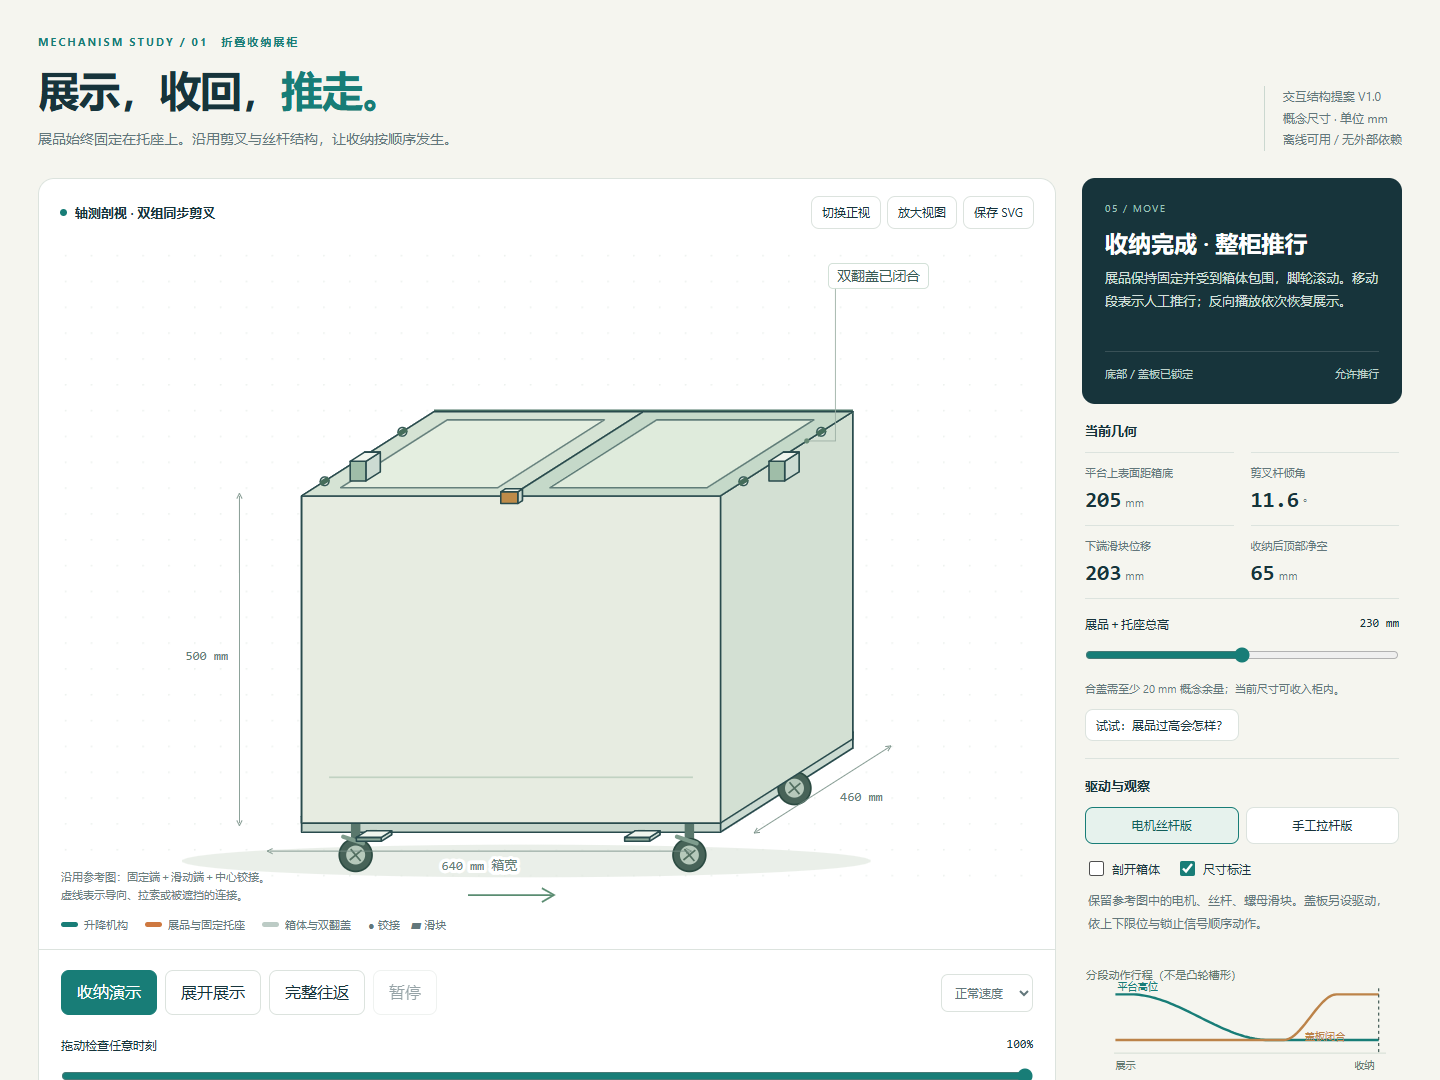
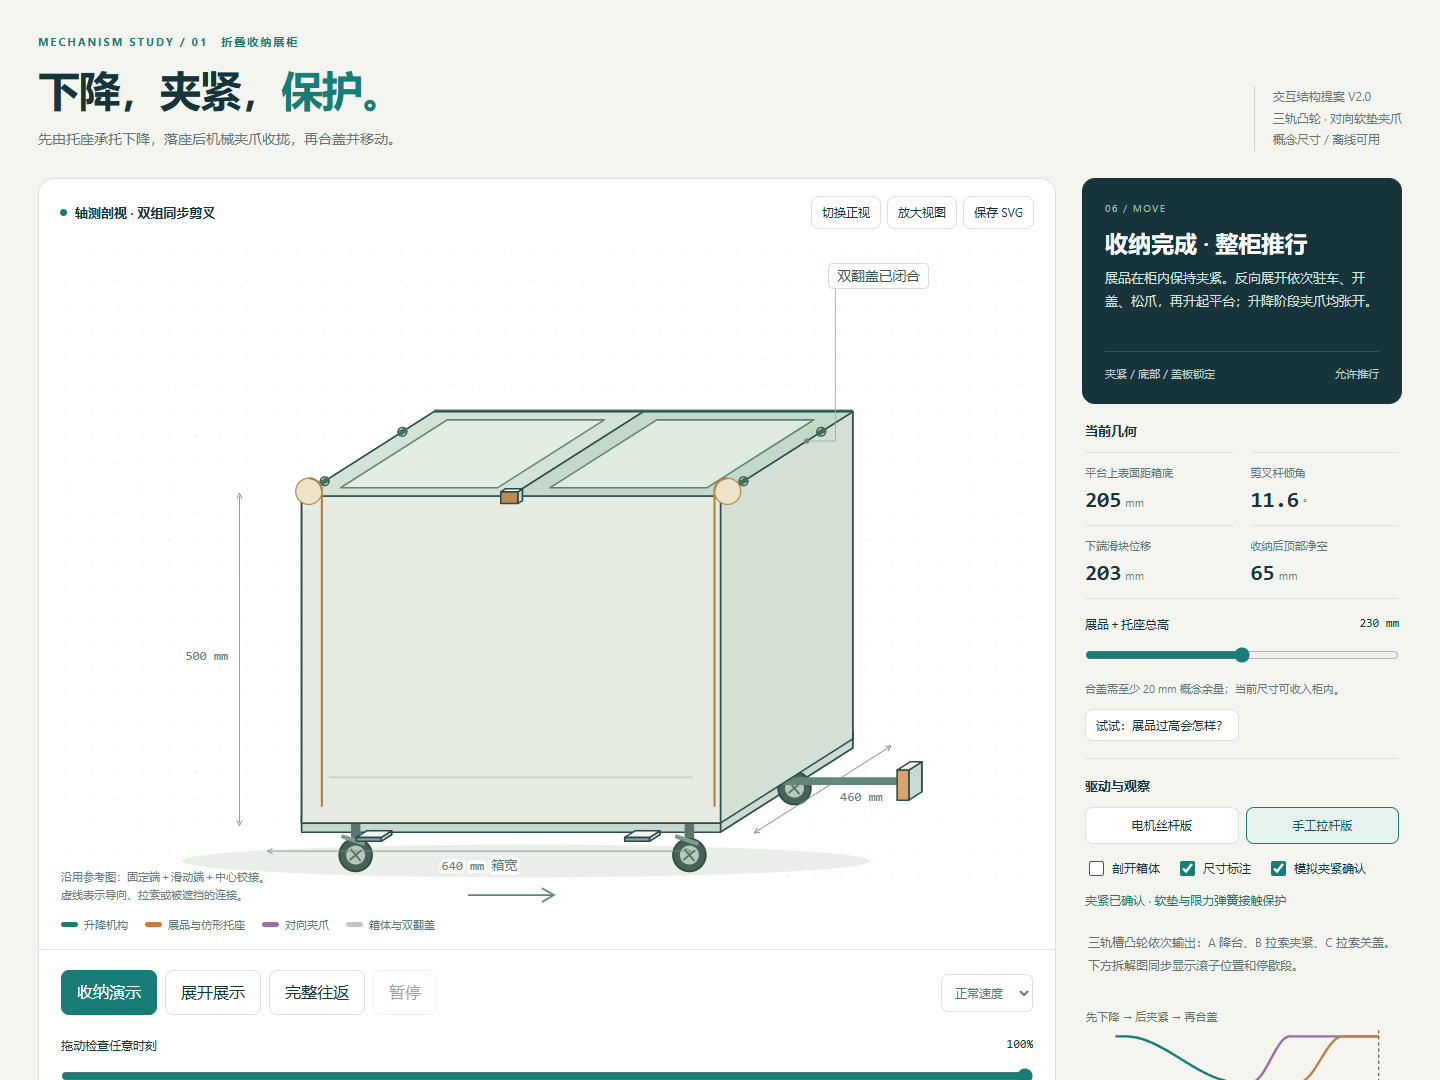
notes: 2026-10-25 08:36:46

diff --git a/60-项目/折叠收纳展柜/index.html b/60-项目/折叠收纳展柜/index.html
@@ -197,41 +197,68 @@ function draw(){
 }
 function drawAnnotations(g,shift){let a='';
  function call(text,screen,world){let t=P(...world);t[0]+=shift;let [x,y]=screen;a+=`<path d="M${x+8} ${y+10} L${x+8} ${t[1]} L${t[0]} ${t[1]}" fill="none" stroke="#9aada2" stroke-width="1"/><circle cx="${t[0]}" cy="${t[1]}" r="3" fill="#668a75"/><rect x="${x}" y="${y-15}" width="${text.length*16+20}" height="29" rx="5" class="callout"/><text x="${x+10}" y="${y+5}" class="label">${text}</text>`;}
- if(!state.front){if(state.cutaway||g.objectTop>C.rim)call('固定托座，随台移动',[82,55],[230,150,g.top+8]);if(state.cutaway)call('中心铰接 · 双组同步',[43,382],[65+g.d/2,90,80+g.h/2]);call(g.lid<1?'双翻盖已闭合':'外翻顶盖',[917,55],[640,300,500]);if(state.cutaway)call(state.mode==='electric'?'丝杆＋螺母滑块':'拉杆驱动滑块',[866,589],[65+g.d,43,65]);}
+ if(!state.front){if(state.cutaway||g.objectTop>C.rim)call('仿形托座，承托下降',[82,55],[230,150,g.top+8]);if(state.cutaway)call('中心铰接 · 双组同步',[43,382],[65+g.d/2,90,80+g.h/2]);call(g.lid<1?'双翻盖已闭合':'外翻顶盖',[917,55],[640,300,500]);if(state.cutaway){call(state.mode==='electric'?'丝杆＋螺母滑块':'三轨凸轮＋拉索',[866,589],[65+g.d,43,65]);call(g.grip>.99?'软垫夹爪已收拢':'软垫夹爪',[884,362],[320,160,g.top+20]);}}
  if(state.dims){
   function dim(A,B,text,dx=0,dy=0){let u=P(...A),v=P(...B);u[0]+=shift;v[0]+=shift;const x=(u[0]+v[0])/2+dx,y=(u[1]+v[1])/2+dy;a+=`<line x1="${u[0]}" y1="${u[1]}" x2="${v[0]}" y2="${v[1]}" class="dim" marker-start="url(#arrow)" marker-end="url(#arrow)"/><text x="${x}" y="${y}" class="dimlabel" text-anchor="middle" paint-order="stroke" stroke="#fff" stroke-width="7" stroke-linejoin="round">${text}</text>`;}
   dim([0,-110,-12],[640,-110,-12],'640 mm 箱宽',0,22);
   const xb=state.front?-115:-95;dim([xb,0,0],[xb,0,500],'500 mm',-38,0);
   if(!state.front)dim([695,0,-13],[695,460,-13],'460 mm',45,13);
-  if(state.cutaway&&g.p>=.58){const top=205+state.objectHeight;let v=P(470,40,500),b=P(470,40,top);a+=`<path d="M${v[0]+shift} ${v[1]}V${b[1]}" stroke="${g.clearance<20?'#b1463d':'#b18448'}" stroke-width="2" marker-start="url(#arrow)" marker-end="url(#arrow)"/><text x="${v[0]+shift+12}" y="${(v[1]+b[1])/2}" class="label" style="fill:${g.clearance<20?'#b1463d':'#946b32'}">净空 ${Math.round(g.clearance)}</text>`;}
+  if(state.cutaway&&g.p>=.46){const top=205+state.objectHeight;let v=P(470,40,500),b=P(470,40,top);a+=`<path d="M${v[0]+shift} ${v[1]}V${b[1]}" stroke="${g.clearance<20?'#b1463d':'#b18448'}" stroke-width="2" marker-start="url(#arrow)" marker-end="url(#arrow)"/><text x="${v[0]+shift+12}" y="${(v[1]+b[1])/2}" class="label" style="fill:${g.clearance<20?'#b1463d':'#946b32'}">净空 ${Math.round(g.clearance)}</text>`;}
  }
- if(g.clearance<C.margin&&g.p>=.58){a+=`<rect x="373" y="60" width="435" height="42" rx="8" fill="#fff1e9" stroke="#d9b09b"/><text x="590" y="87" text-anchor="middle" class="label" style="fill:#a04734">净空不足：合盖与移动已阻止</text>`;}
+ if(g.p>=.699&&(g.clearance<C.margin||!state.clampOK)){a+=`<rect x="373" y="60" width="435" height="42" rx="8" fill="#fff1e9" stroke="#d9b09b"/><text x="590" y="87" text-anchor="middle" class="label" style="fill:#a04734">${g.clearance<C.margin?'净空不足':'夹紧未确认'}：合盖与移动已阻止</text>`;}
  $('annotations').innerHTML=a;
 }
-function drawSequence(g){let s='<text x="1" y="15" font-size="11" fill="#63776e">分段动作行程（不是凸轮槽形）</text><line x1="29" y1="88" x2="297" y2="88" stroke="#d3ddd4"/>';
+function drawSequence(g){let s='<text x="1" y="15" font-size="11" fill="#63776e">先下降 → 后夹紧 → 再合盖</text><line x1="29" y1="88" x2="297" y2="88" stroke="#d3ddd4"/>';
  function graph(fn,color){let path='';for(let i=0;i<=100;i++){const p=i/100,x=30+260*p,y=30+45*fn(p);path+=(i?'L':'M')+x.toFixed(1)+' '+y.toFixed(1);}return `<path d="${path}" stroke="${color}" stroke-width="2.4" fill="none"/>`;}
- s+=graph(p=>segment(p,.06,.58),'#187d77')+graph(p=>1-segment(p,.64,.84),'#bc8349');s+=`<line x1="${30+260*g.p}" y1="24" x2="${30+260*g.p}" y2="88" stroke="#203e38" stroke-width="1" stroke-dasharray="3 3"/><text x="30" y="104" font-size="10" fill="#63776e">展示</text><text x="266" y="104" font-size="10" fill="#63776e">收纳</text><text x="32" y="26" font-size="10" fill="#187d77">平台高位</text><text x="217" y="75" font-size="10" fill="#bc8349">盖板闭合</text>`;$('sequenceDrawing').innerHTML=s;
+ s+=graph(p=>segment(p,.04,.46),'#187d77')+graph(p=>1-segment(p,.52,.66),'#9870a6')+graph(p=>1-segment(p,.70,.86),'#bc8349');s+=`<line x1="${30+260*g.p}" y1="24" x2="${30+260*g.p}" y2="88" stroke="#203e38" stroke-width="1" stroke-dasharray="3 3"/><text x="30" y="104" font-size="10" fill="#63776e">展示</text><text x="266" y="104" font-size="10" fill="#63776e">收纳</text><text x="30" y="124" font-size="10" fill="#187d77">A 平台下降</text><text x="122" y="124" font-size="10" fill="#9870a6">B 夹爪收拢</text><text x="220" y="124" font-size="10" fill="#bc8349">C 顶盖闭合</text>`;$('sequenceDrawing').innerHTML=s;
+}
+function drawMechanism(g){
+ const k=1.44,px=165-C.inputTravel*g.p*k,colors=['#187d77','#9870a6','#b18342'],keys=['camA','camB','camC'],rows=[90,200,280];
+ let m='<text x="26" y="28" font-size="18" font-weight="600" fill="#254840">三轨直动槽凸轮 · 正视展开</text><text x="600" y="28" font-size="18" font-weight="600" fill="#254840">对向软垫夹爪 · 俯视</text><rect x="24" y="56" width="516" height="332" rx="7" fill="#f1f4e9" stroke="#d0dbce"/>';
+ m+=`<g clip-path="url(#camWindow)"><rect x="${px-16}" y="67" width="380" height="305" rx="8" fill="#e2e9da" stroke="#9db2a0" stroke-width="1.5"/>`;
+ for(let j=0;j<3;j++){
+  let d='';for(let i=0;i<=150;i++){const p=i/150,q=geometry(p,state.objectHeight,true),x=px+C.inputTravel*p*k,y=rows[j]+q[keys[j]]*k;d+=(i?'L':'M')+x.toFixed(2)+' '+y.toFixed(2);}
+  m+=`<path d="${d}" fill="none" stroke="${colors[j]}" stroke-width="12" stroke-linecap="round"/><path d="${d}" fill="none" stroke="#fffdf3" stroke-width="7" stroke-linecap="round"/>`;
+ }
+ m+='</g>';
+ for(let j=0;j<3;j++){
+  const cy=rows[j]+g[keys[j]]*k;m+=`<rect x="157" y="${rows[j]-12}" width="16" height="${j===0?102:j===1?61:99}" rx="3" fill="none" stroke="#748c7f" stroke-dasharray="4 3"/><line x1="165" y1="${cy}" x2="165" y2="${cy-18}" stroke="#3b5c50" stroke-width="3"/><circle cx="165" cy="${cy}" r="5" fill="#f9f4db" stroke="${colors[j]}" stroke-width="2"/><rect x="30" y="${rows[j]-27}" width="118" height="24" rx="3" fill="#fafbf6"/><text x="35" y="${rows[j]-10}" font-size="13" fill="${colors[j]}">${['A 升降','B 夹紧','C 关盖'][j]} ${g[keys[j]].toFixed(1)} mm</text>`;
+ }
+ m+=`<text x="26" y="411" font-size="14" fill="#31564a">操作杆：${(C.inputTravel*g.p).toFixed(0)} / 240 mm　控制板向左移</text><path d="M460 405H390m12-6-12 6 12 6" fill="none" stroke="#728d7c" stroke-width="1.5"/><text x="26" y="436" font-size="12" fill="#73877a" class="small-detail">槽线为滚子中心轨迹；槽宽、滚子补偿及压力角需复核。</text>`;
+ // Two opposed racks mesh with one fixed pinion: equal and opposite jaw travel.
+ const L=714+26*g.grip,R=866-26*g.grip;
+ m+='<rect x="602" y="61" width="370" height="303" rx="8" fill="#f4f0f5" stroke="#dfd2e1"/><path d="M625 119H949 M625 293H949" stroke="#c7b7cc" stroke-width="8" stroke-linecap="round"/><circle cx="790" cy="211" r="50" fill="#ead0ac" stroke="#bc966c" stroke-width="2"/><text x="790" y="216" font-size="13" fill="#7c5d41" text-anchor="middle">承力托圈</text>';
+ m+=`<rect x="${L-28}" y="107" width="${824-(L-28)}" height="13" fill="#b89dc0" stroke="#82668b"/><rect x="756" y="150" width="${R+28-756}" height="13" fill="#b89dc0" stroke="#82668b"/>`;
+ for(let i=0;i<10;i++){m+=`<path d="M${L-17+i*10} 120v5h5v-5 M${R+17-i*10} 150v-5h-5v5" fill="none" stroke="#8c6d96" stroke-width="1.5"/>`;}
+ m+=`<g transform="translate(790 135) rotate(${g.grip*26/20*180/Math.PI})"><circle r="20" fill="#e3d6e6" stroke="#8e7298" stroke-width="4"/>`;
+ for(let i=0;i<12;i++){const a=i*Math.PI/6;m+=`<line x1="${16*Math.cos(a)}" y1="${16*Math.sin(a)}" x2="${23*Math.cos(a)}" y2="${23*Math.sin(a)}" stroke="#82668b" stroke-width="4"/>`;}
+ m+='</g><circle cx="790" cy="135" r="4" fill="#82668b"/>';
+ for(const [face,sgn]of [[L,-1],[R,1]]){const bx=sgn<0?face-25:face+8;m+=`<rect x="${bx}" y="105" width="17" height="195" rx="5" fill="#b89dc0" stroke="#8e7298" stroke-width="1.5"/><rect x="${sgn<0?face-8:face}" y="185" width="8" height="52" rx="3" fill="${g.gripConfirmed?'#77a995':'#cfb8d0'}" stroke="#8e7298"/><path d="M${sgn<0?face-35:face+35} 269l-5-5 10-6-10-6 10-6-5-5" stroke="#8e7298" stroke-width="1.8" fill="none"/>`;}
+ m+=`<path d="M640 321H745 M940 321H835 M734 315l11 6-11 6 M846 315l-11 6 11 6" stroke="#9870a6" stroke-width="1.7" fill="none"/><text x="790" y="348" font-size="13" text-anchor="middle" fill="#81618b">单爪内移 ${g.jawTravel.toFixed(1)} / 20 mm</text><text x="601" y="394" font-size="13" fill="#456354">B 拉索 → 齿条 → 中央齿轮 → 对侧齿条</text><text x="601" y="417" font-size="12" fill="#73877a" class="small-detail">接触后由限力弹簧让位；回位弹簧负责松爪。</text><text x="601" y="438" font-size="12" fill="#73877a" class="small-detail">C 卷盘半径 20 mm · 总牵引约 47.1 mm。</text>`;
+ $('mechanismDrawing').innerHTML=m;
 }
 function updateUI(g){
  $('progress').value=Math.round(state.p*1000);$('progressValue').textContent=Math.round(state.p*100)+'%';$('heightValue').textContent=Math.round(g.top);$('angleValue').textContent=g.angle.toFixed(1);$('travelValue').textContent=Math.round(g.travel);$('clearanceValue').textContent=Math.round(g.clearance);$('clearanceValue').classList.toggle('risk',g.clearance<C.margin);$('objectHeightValue').textContent=state.objectHeight;$('objectHeight').value=state.objectHeight;
  let phase,title,desc,index,lock,motion='驻车中';
- if(g.p<=.02){phase='display';index='01 / DISPLAY';title='展开 · 稳定展示';desc='平台升至柜口，展示锁止到位。支撑脚落地，脚轮驻车，展品保持固定。';lock='展示位已锁定';}
- else if(g.p<.06){phase='unlock';index='02 / RELEASE';title='解除展示锁止';desc='保持支撑与驻车，先退出展示位锁销，再启动平台下降。';lock='展示锁销退出';}
- else if(g.p<.58){phase='lower';index='02 / LOWER';title='回收 · 平台下降';desc='滑块向外移动，双组剪叉同步折拢。展品与托座整体下降，顶盖保持完全打开。';lock='盖板禁止关闭';}
- else if(g.p<.64){phase='seat';index='03 / SEAT & LOCK';title='落座 · 承托锁定';desc='平台已落在底部承托块上；锁定后，推行载荷由承托结构传到箱体。';lock=g.baseLocked?'底部锁止到位':'底部锁销进入';}
- else if(g.p<.90){phase='close';index='04 / CLOSE';title=g.p<.84?'保护 · 双盖闭合':'封盖 · 锁扣进入';desc='确认平台到底、底部锁止与顶部净空后，两片顶盖向中间合拢，随后锁住盖板。';lock=g.p<.84?'底部已锁定':'盖板正在锁定';}
- else if(g.p<.94){phase='feet';index='05 / RELEASE PARKING';title='收脚 · 准备移动';desc='展品已收入柜内，底部与顶盖锁定。现在收起支撑脚并解除脚轮驻车。';lock='底部／盖板已锁定';motion='解除驻车';}
- else{phase='move';index='05 / MOVE';title='收纳完成 · 整柜推行';desc='展品保持固定并受到箱体包围，脚轮滚动。移动段表示人工推行；反向播放依次恢复展示。';lock='底部／盖板已锁定';motion='允许推行';}
- const blocked=g.clearance<C.margin&&g.p>=.639;
- if(blocked){phase='blocked';index='INTERLOCK / 净空检查';title='合盖被阻止';desc=`展品＋托座高 ${state.objectHeight} mm，收纳净空 ${Math.round(g.clearance)} mm，低于预留的 20 mm。请调低高度后再继续。`;lock='顶盖保持打开';motion='移动被阻止';}
+ if(g.p<=.02){phase='display';index='01 / DISPLAY';title='展开 · 承托展示';desc='展品由仿形托座承托定位，夹爪张开。平台锁止，支撑脚落地，脚轮驻车。';lock='展示位已锁定';}
+ else if(g.p<.04){phase='unlock';index='02 / RELEASE';title='解除展示锁止';desc='保持支撑与驻车，退出展示位锁销。夹爪保持张开，先让平台下降。';lock='展示锁销退出';}
+ else if(g.p<.46){phase='lower';index='02 / LOWER';title='回收 · 平台下降';desc='双组剪叉同步折拢。展品在仿形托座中承托定位，夹爪保持张开，顶盖完全打开。';lock='夹爪与顶盖停歇';}
+ else if(g.p<.52){phase='seat';index='03 / SEAT & LOCK';title='落座 · 承托锁定';desc='平台先落在底部承托块上并锁定。此时升降停止，夹爪尚未收拢。';lock=g.baseLocked?'底部锁止到位':'底部锁销进入';}
+ else if(g.p<.70){phase='grip';index='04 / GRIP';title=g.grip<1?'保护 · 机械夹爪收拢':'夹紧完成 · 等待确认';desc='左右软垫夹爪通过两条齿条同步向中间移动，夹持定制承力托圈；限力弹簧缓冲接触后的过行程。';lock=g.gripConfirmed?'夹紧已确认':'夹爪正在收拢';}
+ else if(g.p<.90){phase='close';index='05 / CLOSE';title=g.p<.86?'保护 · 双盖闭合':'封盖 · 锁扣进入';desc='平台已落座、夹紧已确认且顶部净空足够，两根拉索牵引左右卷盘关盖。夹爪保持夹紧。';lock=g.p<.86?'夹紧保持中':'盖板正在锁定';}
+ else if(g.p<.94){phase='feet';index='06 / RELEASE PARKING';title='收脚 · 准备移动';desc='展品夹紧，平台与顶盖锁定。收起支撑脚并解除脚轮驻车，再进行人工推行。';lock='夹紧／底部／盖板锁定';motion='解除驻车';}
+ else{phase='move';index='06 / MOVE';title='收纳完成 · 整柜推行';desc='展品在柜内保持夹紧。反向展开依次驻车、开盖、松爪，再升起平台；升降阶段夹爪均张开。';lock='夹紧／底部／盖板锁定';motion='允许推行';}
+ const blocked=(g.clearance<C.margin||!state.clampOK)&&g.p>=.699;
+ if(blocked){phase='blocked';index='INTERLOCK / 合盖检查';title='合盖被阻止';desc=g.clearance<C.margin?`展品总高 ${state.objectHeight} mm，净空 ${Math.round(g.clearance)} mm，低于预留的 20 mm。请调低高度后继续。`:'夹爪已执行收拢，但模拟夹紧确认未通过。顶盖保持打开，禁止移动；勾选“模拟夹紧确认”后可继续。';lock='顶盖保持打开';motion='移动被阻止';}
  $('stateIndex').textContent=index;$('stateTitle').textContent=title;$('stateDesc').textContent=desc;$('lockState').textContent=lock;$('motionState').textContent=motion;$('statusPanel').classList.toggle('error',blocked);
  $('clearanceHint').textContent=g.clearance<C.margin?'当前净空不足，演示将停在合盖之前。最大建议总高 275 mm。':'合盖需至少 20 mm 概念余量；当前尺寸可收入柜内。';$('clearanceHint').classList.toggle('risk',g.clearance<C.margin);
  if(state.phase!==phase){state.phase=phase;$('announcement').textContent=title;}
- const current=g.p<.06?0:g.p<.58?1:g.p<.64?2:g.p<.94?3:4;
+ $('gripState').textContent=g.grip===0?'夹爪张开 · 展品由仿形托座承托':g.grip<1?`夹爪收拢中 · 单爪位移 ${g.jawTravel.toFixed(1)} mm`:g.gripConfirmed?'夹紧已确认 · 软垫与限力弹簧接触保护':'夹爪已收拢 · 夹紧尚未确认';
+ const current=g.p<.04?0:g.p<.46?1:g.p<.52?2:g.p<.70?3:g.p<.94?4:5;
  document.querySelectorAll('.timeline button').forEach((b,i)=>{b.classList.toggle('active',i===current);if(i===current)b.setAttribute('aria-current','step');else b.removeAttribute('aria-current');});
  $('pauseBtn').disabled=!state.running&&!state.paused;$('pauseBtn').textContent=state.paused?'继续':'暂停';
 }
-function constrain(p){return geometry(p).clearance<C.margin?Math.min(clamp(p),.64):clamp(p);}
+function constrain(p){return geometry(p).clearance<C.margin||!state.clampOK?Math.min(clamp(p),.70):clamp(p);}
 function setProgress(p){state.p=constrain(Number(p));draw();}
 function stop(paused=false){state.running=false;state.paused=paused;state.last=0;if(state.raf)cancelAnimationFrame(state.raf);state.raf=0;}
 function schedule(){state.raf=requestAnimationFrame(tick);}
@@ -248,16 +275,17 @@ $('progress').addEventListener('input',e=>{stop();state.cycle=false;state.target
 document.querySelectorAll('[data-progress]').forEach(b=>b.addEventListener('click',()=>{stop();state.target=1;setProgress(b.dataset.progress);}));
 $('objectHeight').addEventListener('input',e=>{stop();state.objectHeight=Number(e.target.value);state.p=constrain(state.p);draw();});
 $('faultBtn').addEventListener('click',()=>{stop();state.objectHeight=320;state.p=0;start(1);});
-function mode(v){state.mode=v;$('electricBtn').setAttribute('aria-pressed',v==='electric');$('manualBtn').setAttribute('aria-pressed',v==='manual');$('driveDesc').textContent=v==='electric'?'保留参考图中的电机、丝杆、螺母滑块。盖板另设驱动，依上下限位与锁止信号顺序动作。':'拉杆替代丝杆驱动滑块，侧置联动模块安排“先降台、后拉索关盖”。虚线为拉索路径示意，双槽凸轮与杠杆尚需细化。';draw();}
+function mode(v){state.mode=v;$('electricBtn').setAttribute('aria-pressed',v==='electric');$('manualBtn').setAttribute('aria-pressed',v==='manual');$('driveDesc').textContent=v==='electric'?'沿用电机丝杆升降。平台到底并锁定后，夹爪执行收拢，确认成功后才驱动盖板。':'三轨槽凸轮依次输出：A 降台、B 拉索夹紧、C 拉索关盖。下方拆解图同步显示滚子位置和停歇段。';draw();}
 $('electricBtn').addEventListener('click',()=>mode('electric'));$('manualBtn').addEventListener('click',()=>mode('manual'));
+$('clampOK').addEventListener('change',e=>{stop();state.clampOK=e.target.checked;state.p=constrain(state.p);draw();});
 $('cutaway').addEventListener('change',e=>{state.cutaway=e.target.checked;draw();});$('dims').addEventListener('change',e=>{state.dims=e.target.checked;draw();});
 $('viewBtn').addEventListener('click',()=>{state.front=!state.front;$('viewBtn').textContent=state.front?'切换轴测':'切换正视';$('viewLabel').textContent=state.front?'正视剖面 · 前后两组投影重合':'轴测剖视 · 双组同步剪叉';draw();});
 $('fullBtn').addEventListener('click',()=>{const on=$('app').classList.toggle('fullscreen');$('fullBtn').setAttribute('aria-pressed',on);$('fullBtn').textContent=on?'恢复布局':'放大视图';});
-function selectPart(id){state.selected=state.selected===id?null:id;$('partDetail').textContent=state.selected?partText[id]:'选择一个部件，在图中高亮观察。橙色展品与托座全程作为一个整体移动。';document.querySelectorAll('#parts button').forEach(b=>{b.classList.toggle('selected',b.dataset.part===state.selected);b.setAttribute('aria-pressed',b.dataset.part===state.selected);});draw();}
+function selectPart(id){state.selected=state.selected===id?null:id;$('partDetail').textContent=state.selected?partText[id]:'选择部件高亮查看。下降阶段夹爪张开，平台落座后才收拢。';document.querySelectorAll('#parts button').forEach(b=>{b.classList.toggle('selected',b.dataset.part===state.selected);b.setAttribute('aria-pressed',b.dataset.part===state.selected);});draw();}
 $('parts').addEventListener('click',e=>{const b=e.target.closest('[data-part]');if(b)selectPart(b.dataset.part);});$('drawing').addEventListener('click',e=>{const b=e.target.closest('[data-part]');if(b)selectPart(b.dataset.part);});
 $('exportBtn').addEventListener('click',()=>{const clone=$('scene').cloneNode(true);clone.setAttribute('width','1180');clone.setAttribute('height','800');if(!state.dims)clone.querySelectorAll('.dim,.dimlabel').forEach(n=>n.remove());const blob=new Blob(['<?xml version="1.0" encoding="UTF-8"?>\n'+new XMLSerializer().serializeToString(clone)],{type:'image/svg+xml;charset=utf-8'}),url=URL.createObjectURL(blob),a=document.createElement('a');a.href=url;a.download=`折叠展柜-${state.mode}-${Math.round(state.p*100)}.svg`;a.click();setTimeout(()=>URL.revokeObjectURL(url),1000);});
 // Read-only geometry API for reproducible verification and future dimensional refinement.
-window.cabinetDemo=Object.freeze({geometry:(p,h)=>geometry(clamp(p),h===undefined?state.objectHeight:h),getState:()=>({...state}),constants:{...C},endpoints:{dHigh,dLow}});
+window.cabinetDemo=Object.freeze({geometry:(p,h,ok)=>geometry(clamp(p),h===undefined?state.objectHeight:h,ok===undefined?state.clampOK:ok),getState:()=>({...state}),constants:{...C},endpoints:{dHigh,dLow}});
 draw();
 })();
 </script>
